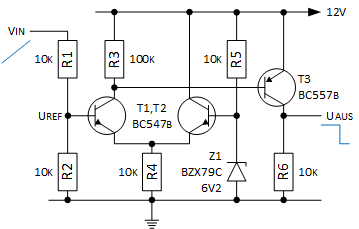
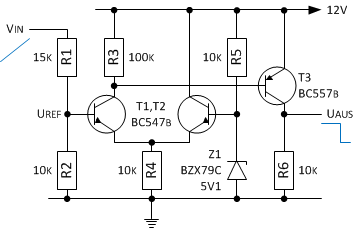
Update Pages

Changed region(s): [[0.0, 0.0, 1.0, 1.0], [0.0, 0.2456, 0.0311, 0.2763]]

diff --git a/pages/benzinstandsanzeige.md b/pages/benzinstandsanzeige.md
@@ -34,9 +34,9 @@ Die Benzinstandsanzeige wird mit Hilfe eines zweistufig invertierenden Schaltver
 
 Um die abzuführende Leistung gering zu halten, wird ein Wert von 180 Ohm genutzt. Die maximale Leistung bei direktem Anschluß an Ubat = 15V beträgt 1,25 Watt.  
 
-Die Umschaltspannung Uu von 3,3V wird durch Nutzung der Z-Diode Z1 festgelegt. In Abhängigkeit von der Eingangsspannung wird folgendes Verhalten erzielt: 
-- Sobald am Eingang die Spannung von 3,3V unterschritten wird (Uin < Uu), sperrt der Transistor und am Ausgang liegt der 100 Ohm Widerstand über den Transistor der zweiten Stufe gegen Masse.
-- Sofern die 3,3V überschritten werden (Uin > Uu) leitet der Transistor der ersten Stufe und der Transitor der zweiten Stufe sperrt. Der Ausgang ist somit unbeschaltet.
+Die Umschaltspannung Uu von 5,1V wird durch Nutzung der Z-Diode Z1 festgelegt (Z-Dioden mit Werten < 5V sind bei kleinen Störmen schlecht geeignet, daher wurde hier eine Z-Diode mit einem Wert von 5,1V gewählt). In Abhängigkeit von der Eingangsspannung wird folgendes Verhalten erzielt: 
+- Sobald am Eingang die Spannung von ca. 5V unterschritten wird (Uin < Uu), sperrt der Transistor und am Ausgang liegt der 100 Ohm Widerstand über den Transistor der zweiten Stufe gegen Masse.
+- Sofern die ca. 5V überschritten werden (Uin > Uu) leitet der Transistor der ersten Stufe und der Transitor der zweiten Stufe sperrt. Der Ausgang ist somit unbeschaltet.
 
 Mit einem Eingangswiderstandswert von 10k und einem Widerstand von 6,8k gegen Masse fließt mit Ubat = 10V bis 15V und bei Uin > Uu ein ausreichend großer Basisstrom über R1 zum Transistor der ersten Schaltstufe, um die direkt angekoppelte Schaltstufe ([DCTL](http://en.wikipedia.org/wiki/Direct-coupled_transistor_logic)) bestehend aus R3 und T2 sicher zu schalten. Die Z-Diode Z2 zwischen Basis und Emitter von T2 dient als Strombegrenzung (ca. 26mA) bei Anwendung eines 100 Ohm Widerstandes für die Füllstandsanzeige. Die maximale Leitung für T2 bei direktem Anschluss des _Out_ Ausganges an Ubat = 15V beträgt :
 

diff --git a/pages/kontrollanzeige_1.md b/pages/kontrollanzeige_1.md
@@ -91,15 +91,15 @@ Eine solche Schaltung wird als (nicht-invertierender) [Schmitt-Trigger](https://
 
     U(low) = Uref * (R1||R9 + R2) / R2
            = Uz * (R1/R2 * R9/(R1+R9) + 1)
-           = 6,2V * (10k/10k * 100k/(10k+100k) + 1)
-           = 11,8V
+           = 6,2V * (14,7k/10k * 150k/(14,7k+150k) + 1)
+           = 11,9V
 
     U(high) = Uref * (R1 + R2||R9) / (R2||R9)
             = Uz * (R1/R2 * (R2+R9)/R9 + 1)
-            = 6,2V * (10k/10k * (10k+100k)/100k + 1)
-            = 13,0V
+            = 6,2V * (14,7k/10k * (10k+150k)/150k + 1)
+            = 13,1V
 
-Wird am Eingang die Spannung von 13V überschritten, geht der Differenzverstärker in die positive Sättigung und der Ausgang ist logisch _High_, bei unterschreiten der Spannung von 11,8V, geht er in die negative Sättigung und der Ausgang ist logisch _Low_.
+Wird am Eingang die Spannung von ca. 13V überschritten, geht der Differenzverstärker in die positive Sättigung und der Ausgang ist logisch _High_, bei unterschreiten der Spannung von ca. 12V, geht er in die negative Sättigung und der Ausgang ist logisch _Low_.
 
 Zum Schutz vor positiven und negativen Spannungsspitzen sind zusätzlich Dioden vom Typ BAV20 am positiven Eingang des Differenzverstärkers eingesetzt. Der Kondensator C1 bildet zusammen mit R1 ein Tiefpass, damit keine Störsignale an der Basis vom Transistor T1 gelangen.
 
